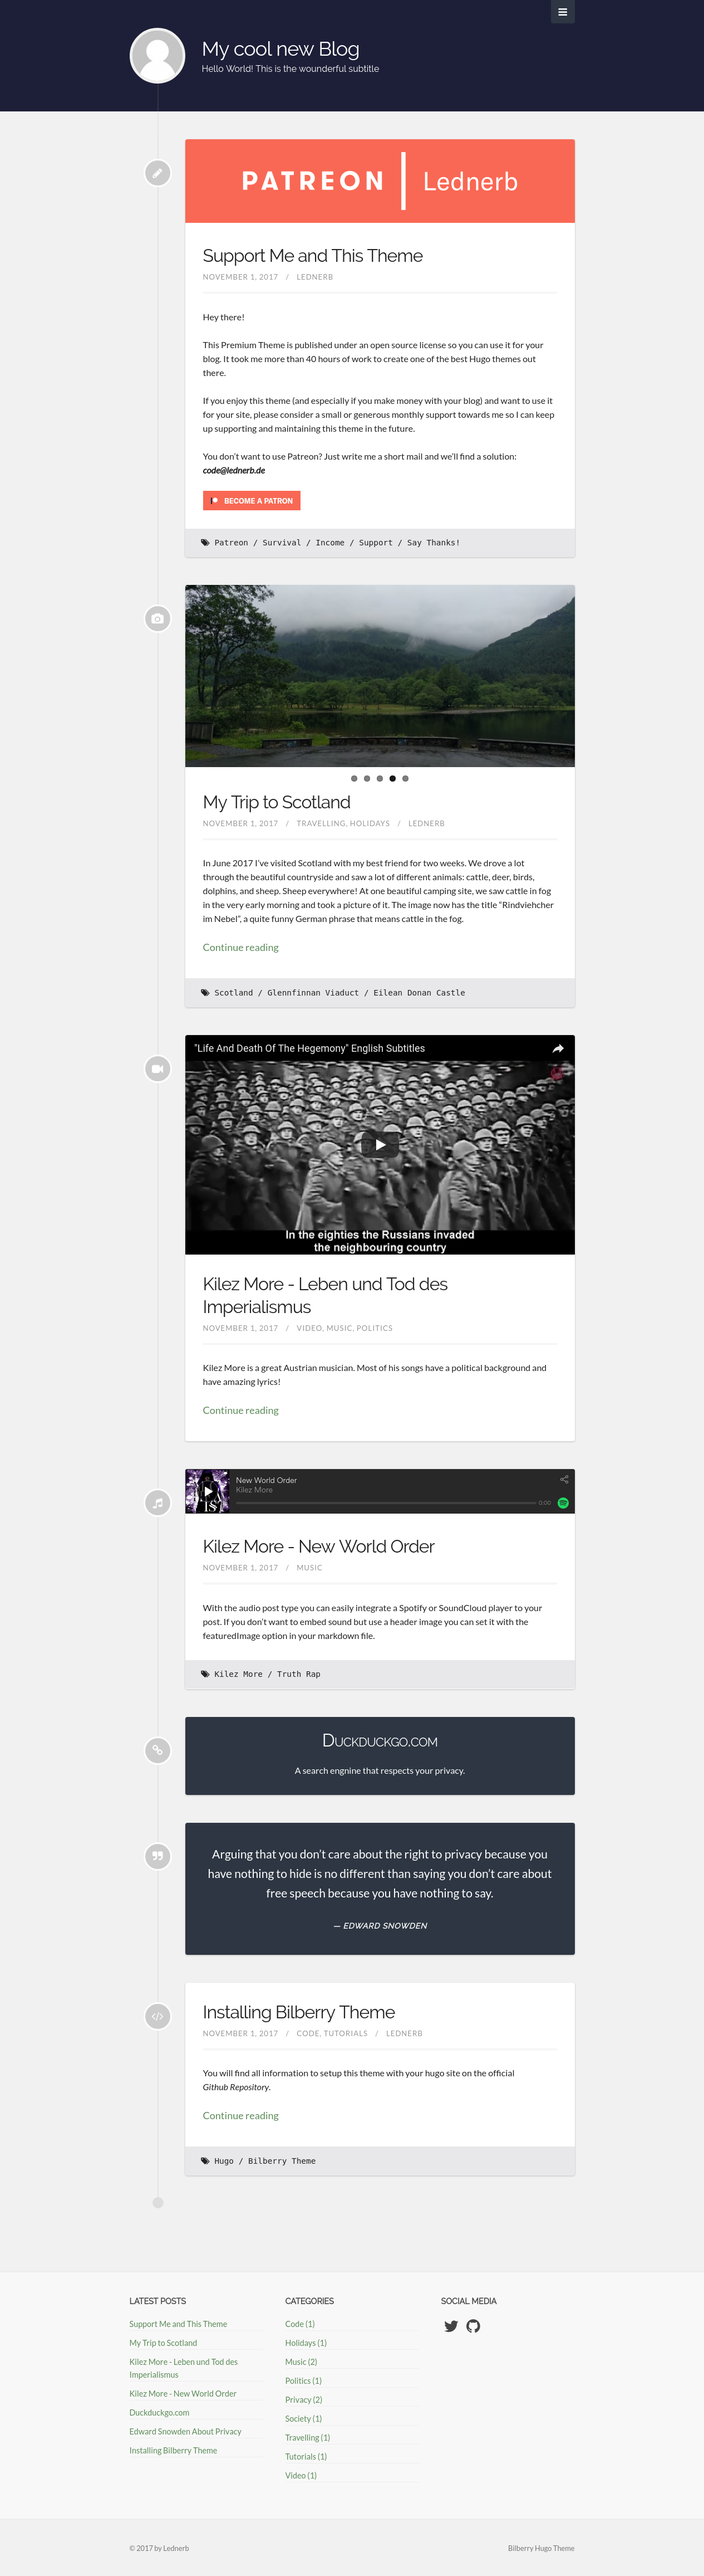
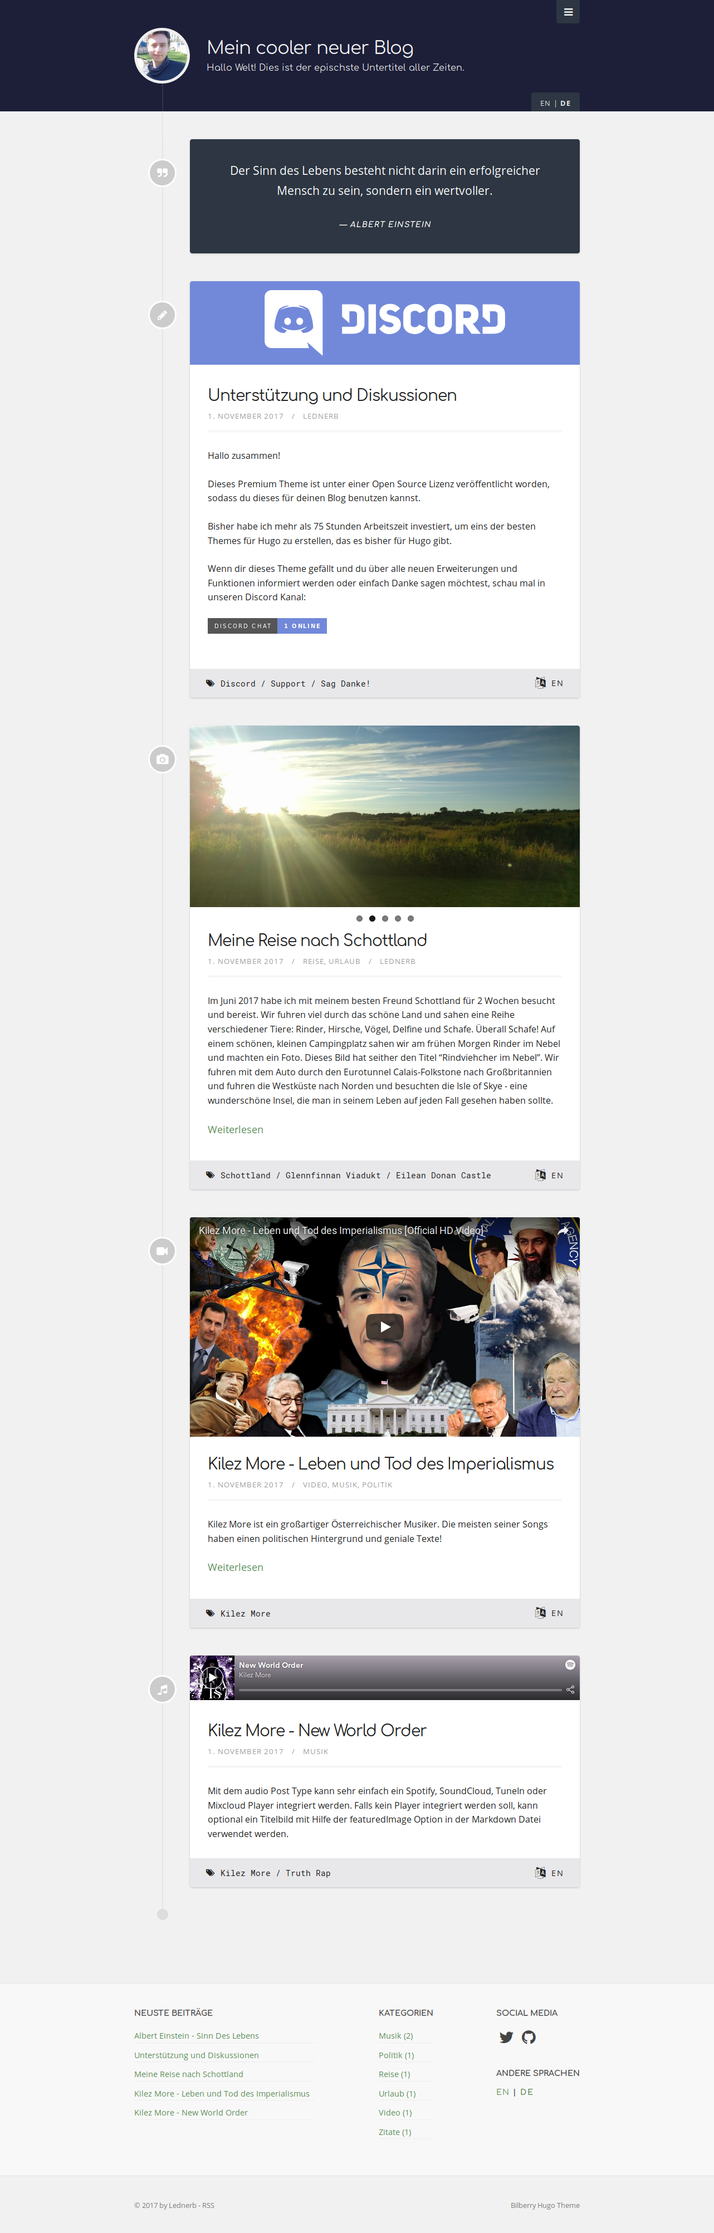
Removed Patreon. Implemented Discord Server.

diff --git a/README.md b/README.md
@@ -1,5 +1,6 @@
 ## Bilberry Hugo Theme
 [![GitHub version](https://img.shields.io/github/release/Lednerb/bilberry-hugo-theme/all.svg?style=flat-square)](https://github.com/Lednerb/bilberry-hugo-theme/releases)
+[![Discord](https://img.shields.io/discord/479643633814077465.svg?style=flat-square&label=Discord%20Chat&colorB=7289da)](https://discord.gg/vZVHJ4j)
 [![License](https://img.shields.io/github/license/Lednerb/bilberry-hugo-theme.svg?style=flat-square)](https://github.com/Lednerb/bilberry-hugo-theme/blob/master/LICENSE.md)
 [![GitHub stars](https://img.shields.io/github/stars/Lednerb/bilberry-hugo-theme.svg?style=social&label=Stars)](https://github.com/Lednerb/bilberry-hugo-theme)
 
@@ -10,8 +11,6 @@ Bilberry is an adaption that comes with different optimizations and little featu
 <br>Click here for a [DEMO / PREVIEW](https://lednerb.github.io/bilberry-hugo-theme).
 
 If you like this theme and/or use it for commercial purposes, please support me!
-
-<a href="https://www.patreon.com/Lednerb" target="patreon"><img src="https://github.com/Lednerb/bilberry-hugo-theme/raw/master/images/patreon-button.png" height="40" alt="Become a Patron"></a>
 
 
 ## Table of Contents
@@ -34,7 +33,7 @@ If you like this theme and/or use it for commercial purposes, please support me!
 - [CSS and JS modules](#css-and-js-modules)
 - [Credits](#credits)
 - [License](#license)
-- [Support Me and This Theme](#support-me-and-this-theme)
+- [Support and Discussions](#support-and-discussions)
 
 
 ## Quick Start
@@ -241,10 +240,7 @@ A big thank you goes to [@Ipstenu](https://github.com/Ipstenu) for his help in [
 The Bilberry Theme for HUGO is licensed under the MIT license.
 
 
-## Support Me and This Theme
-If you enjoy this theme (and especially if you make money with your blog) and want to use it for your site, please consider a small or generous monthly support towards me so I can keep up supporting and maintaining this theme in the future.
+## Support and Discussions
+If you enjoy this theme and want to stay up to date or just want to say thanks, have a look at this Discord Channel:
 
-<a href="https://www.patreon.com/Lednerb" target="_blank"><img src="https://github.com/Lednerb/bilberry-hugo-theme/raw/master/images/patreon-button.png" height="40" alt="Become a Patron"></a>
-
-You don’t want to use Patreon? <br>
-Just write me a short mail and we’ll find a solution: code@lednerb.de
+[![Discord](https://img.shields.io/discord/479643633814077465.svg?style=for-the-badge&label=Discord%20Chat&colorB=7289da)](https://discord.gg/vZVHJ4j)

diff --git a/exampleSite/content/article/support-and-discussions/index.de.md b/exampleSite/content/article/support-and-discussions/index.de.md
@@ -1,0 +1,17 @@
+---
+title: "Unterstützung und Diskussionen"
+date: 2017-11-01T18:10:14+01:00
+
+tags: ['Discord', 'Support', 'Sag Danke!']
+author: "Lednerb"
+noSummary: true
+---
+Hallo zusammen!
+
+Dieses Premium Theme ist unter einer Open Source Lizenz veröffentlicht worden, sodass du dieses für deinen Blog benutzen kannst.
+
+Bisher habe ich mehr als 75 Stunden Arbeitszeit investiert, um eins der besten Themes für Hugo zu erstellen, das es bisher für Hugo gibt.
+
+Wenn dir dieses Theme gefällt und du über alle neuen Erweiterungen und Funktionen informiert werden oder einfach Danke sagen möchtest, schau mal in unseren Discord Kanal:
+
+[![Discord](https://img.shields.io/discord/479643633814077465.svg?style=for-the-badge&label=Discord%20Chat&colorB=7289da)](https://discord.gg/vZVHJ4j)

diff --git a/exampleSite/content/article/support-and-discussions/index.md b/exampleSite/content/article/support-and-discussions/index.md
@@ -1,0 +1,16 @@
+---
+title: "Support and Discussions"
+date: 2017-11-01T18:10:14+01:00
+
+tags: ['Discord', 'Support', 'Say Thanks!']
+author: "Lednerb"
+noSummary: true
+---
+Hey there!
+
+This Premium Theme is published under an open source license so you can use it for your blog. It took me more than 75 hours of work to create one of the best Hugo themes out there.
+
+If you enjoy this theme and want to stay informed about the latest releases and features or want to say thanks and discuss with other users, just join our Discord server:
+
+[![Discord](https://img.shields.io/discord/479643633814077465.svg?style=for-the-badge&label=Discord%20Chat&colorB=7289da)](https://discord.gg/vZVHJ4j)
+
